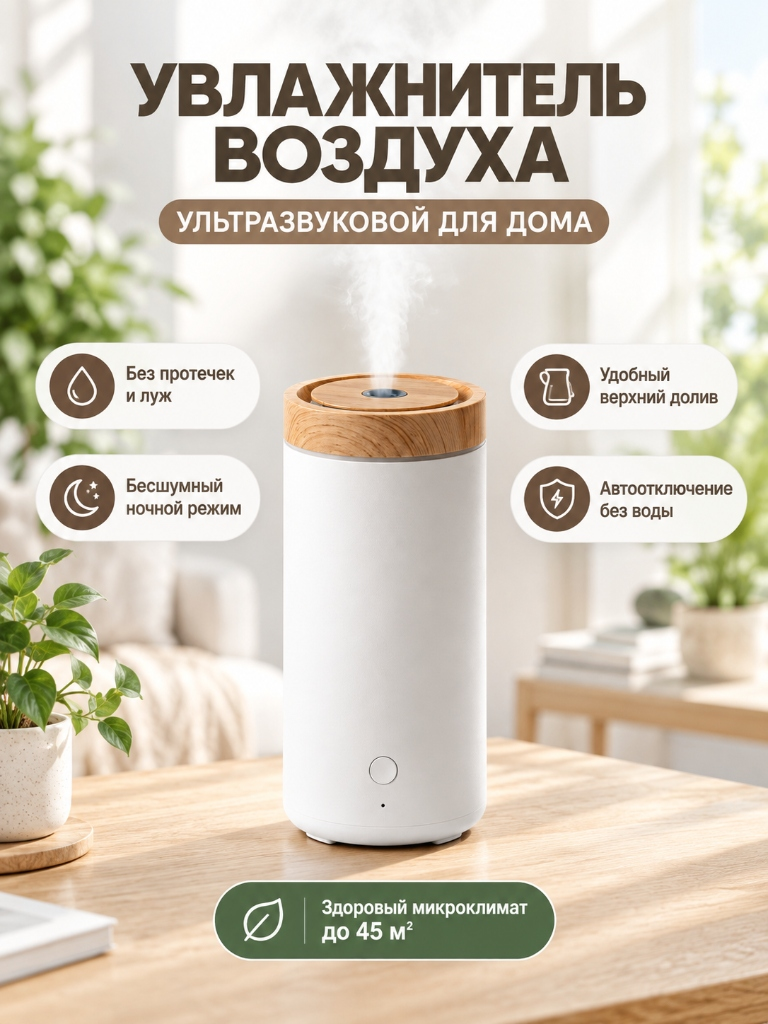
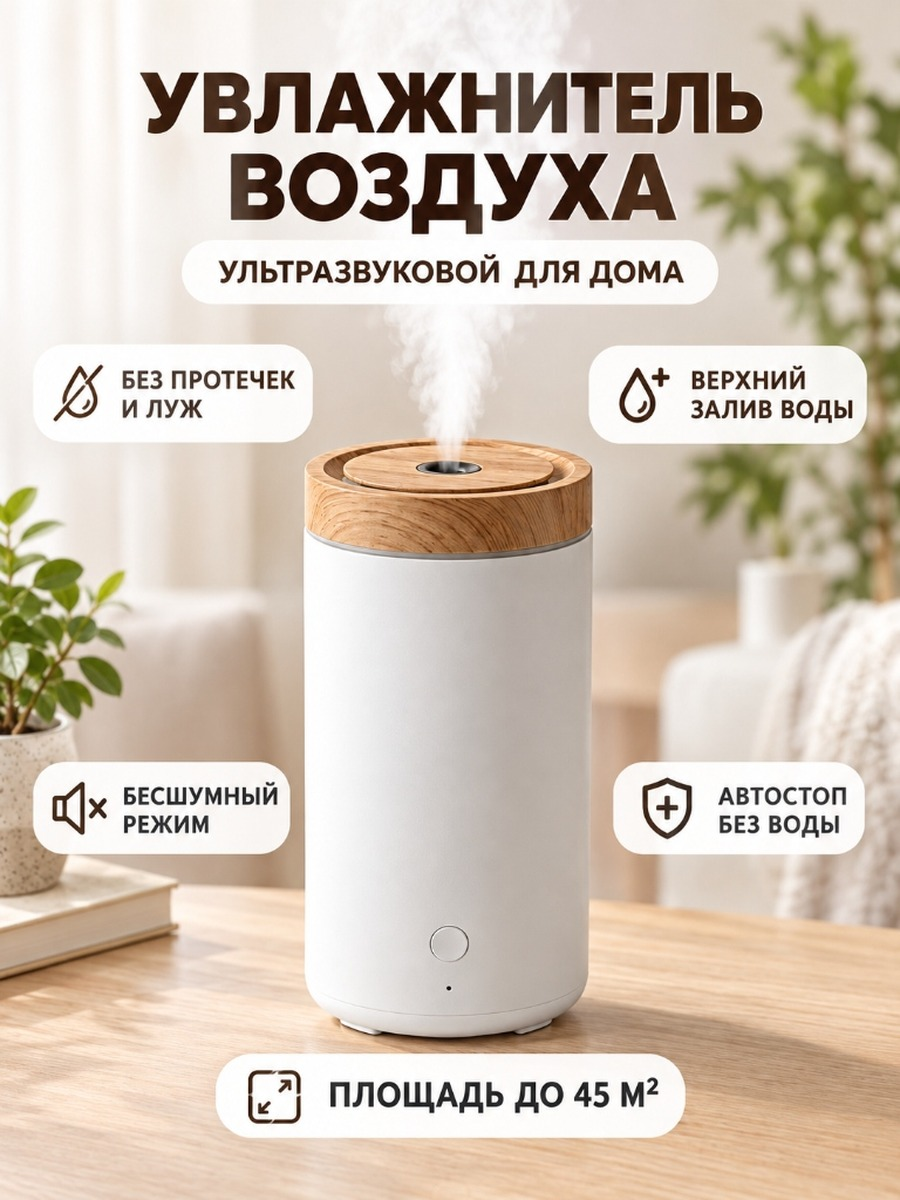
feat(case): update humidifier card image with clean mobile-first typography and sync prompt

diff --git a/index.html b/index.html
@@ -5233,19 +5233,19 @@
           <div class="pain-item">
             <div style="font-weight: 700; font-size: 0.92rem; color: var(--text-primary);">2. Сгорание и перегрев (25% поломок)</div>
             <div class="pain-quote">«Проработал 2 недели и перестал... Ночью проснулись от запаха палёного пластика»</div>
-            <div class="pain-solution">✓ Решение на карточке: плашка «Автоотключение без воды» (встроенный датчик сухого хода и защита платы).</div>
+            <div class="pain-solution">✓ Решение на карточке: плашка «Автостоп без воды» (встроенный датчик сухого хода и защита платы).</div>
           </div>
 
           <div class="pain-item">
             <div style="font-weight: 700; font-size: 0.92rem; color: var(--text-primary);">3. Неудобный долив и перелив воды</div>
             <div class="pain-quote">«Нет отметки max уровня воды... Если чуть перелить, начинает булькать и пар не идёт»</div>
-            <div class="pain-solution">✓ Решение на карточке: плашка «Удобный верхний долив» (прямой залив из кувшина без переворачивания бака).</div>
+            <div class="pain-solution">✓ Решение на карточке: плашка «Верхний залив воды» (прямой залив без переворачивания бака).</div>
           </div>
 
           <div class="pain-item">
             <div style="font-weight: 700; font-size: 0.92rem; color: var(--text-primary);">4. Потребность: здоровый сон и тишина</div>
             <div class="pain-quote">«Взяли в детскую, ребёнок перестал сопеть и кашлять, работает абсолютно бесшумно»</div>
-            <div class="pain-solution">✓ Решение на карточке: плашка «Бесшумный ночной режим» и бейдж «Здоровый микроклимат до 45 м²».</div>
+            <div class="pain-solution">✓ Решение на карточке: плашка «Бесшумный режим» и бейдж «Площадь до 45 м²».</div>
           </div>
         </div>
       </section>
